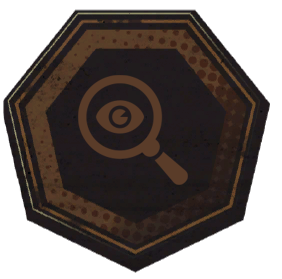
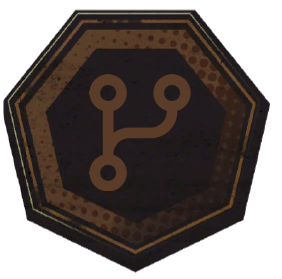
created initial layout, vm and wiring for the settings tab

Changed region(s): [[0.2553, 0.2581, 0.6809, 0.6882]]

diff --git a/ViewModels/Tabs/SearchTabViewModel.cs b/ViewModels/Tabs/SearchTabViewModel.cs
@@ -1,0 +1,58 @@
+using CommunityToolkit.Mvvm.ComponentModel;
+using CommunityToolkit.Mvvm.Input;
+
+namespace RainbusToolbox.ViewModels.Tabs;
+
+/*
+
+basically what i need:
+
+- field to enter what to find at the top + toggle button to enable regex mode
+
+- search through all the files in /localize/
+the porblem with search is that my files are serialized, so first i won't be able to process new filetypes the game adds without updating my model list
+second it would search only file's data instead of whole json like in vscode
+
+good things is that i can easily make "jump to" button to open needed file at needed place right away
+i also can ignore ids, but for this it's probably better to add a toggle if you'd need to find something by id
+
+next what, next i need to see how to make this not lag during the search itself, + properly fill the view so it won't lag too
+
+i think i'd make search execute on focus loss, like i did with navigation manual input
+realtime search like in vscode i feel will bee too sluggish due to serializations
+
+
+plans for future:
+- maybe make a replace field like in vscode (with force ignore for id fields)
+- if i'd make a replace field, i can add a "create quick regex" button that'd copy current replacement into regex list
+
+
+TODO: also overview icon fits search more, move it and make a new icon for the overview!!!
+*/
+public partial class SearchTabViewModel : ObservableObject, IMainWindowTab
+{
+    [ObservableProperty]
+    private string _replaceToText;
+
+    [ObservableProperty]
+    private string _searchStatus = "No searches yet...";
+
+    [ObservableProperty]
+    private string _textToSearch;
+
+    public Task OnTabOpened()
+    {
+        // something something, i guess add an automatic search refresh here + discord rpc as usual
+        return Task.CompletedTask;
+    }
+
+
+    [RelayCommand]
+    public void ProcessSearch()
+    {
+    }
+
+    public void CleanPreviousResults()
+    {
+    }
+}

diff --git a/ViewModels/Tabs/ReleaseTabViewModel.cs b/ViewModels/Tabs/ReleaseTabViewModel.cs
@@ -155,7 +155,7 @@ public partial class ReleaseTabViewModel : ObservableObject, IMainWindowTab
     private bool _buildVersion;
 
     [ObservableProperty]
-    private string _versionDisplay;
+    private string _versionDisplay = "Loading...";
 
 
     [ObservableProperty]
@@ -175,9 +175,6 @@ public partial class ReleaseTabViewModel : ObservableObject, IMainWindowTab
                 ? desktop.MainWindow
                 : null;
         if (top == null) return;
-
-        var storage = top.StorageProvider;
-
 
         var file = await _dialogService.PickSingleFileAsync(new FilePickerOpenOptions
         {
@@ -243,7 +240,7 @@ public partial class ReleaseTabViewModel : ObservableObject, IMainWindowTab
                 : VersionType.Build;
             var nextVersion = _gitManager.GetNextVersionByType(versionTypeToGet).ToString();
 
-            // commit and sync release version, dunno what i didn't think of doing that back then
+            // commit and sync release version, dunno why i didn't think of doing that back then
 
             _gitManager.CommitLocalChanges($"Automatic commit of release version {nextVersion}");
             await _gitManager

diff --git a/ViewModels/MainWindowViewModel.cs b/ViewModels/MainWindowViewModel.cs
@@ -30,6 +30,7 @@ public partial class MainWindowViewModel : ObservableObject
         FilesTabViewModel filesTabViewModel,
         OverviewTabViewModel overviewTabViewModel,
         ReleaseTabViewModel releaseTabViewModel,
+        SearchTabViewModel searchTabViewModel,
         DiscordRPCService discordRPCService,
         DialogService dialogService)
     {
@@ -45,6 +46,7 @@ public partial class MainWindowViewModel : ObservableObject
         FilesTabViewModel = filesTabViewModel;
         OverviewTabViewModel = overviewTabViewModel;
         ReleaseTabViewModel = releaseTabViewModel;
+        SearchTabViewModel = searchTabViewModel;
 
 
         // Initial parse
@@ -126,6 +128,7 @@ public partial class MainWindowViewModel : ObservableObject
     public FilesTabViewModel FilesTabViewModel { get; }
     public OverviewTabViewModel OverviewTabViewModel { get; }
     public ReleaseTabViewModel ReleaseTabViewModel { get; }
+    public SearchTabViewModel SearchTabViewModel { get; }
 
     // ReSharper disable once NotAccessedField.Local
     private Timer? _reparseTimer;

diff --git a/App.axaml.cs b/App.axaml.cs
@@ -231,6 +231,7 @@ public class App : Application
         services.AddSingleton<FilesTabViewModel>();
         services.AddSingleton<ReleaseTabViewModel>();
         services.AddSingleton<OverviewTabViewModel>();
+        services.AddSingleton<SearchTabViewModel>();
     }
 
     private static void RegisterTranslationEditorVMs(ServiceCollection services)

diff --git a/Views/Tabs/SearchTab.axaml.cs b/Views/Tabs/SearchTab.axaml.cs
@@ -1,0 +1,13 @@
+using Avalonia;
+using Avalonia.Controls;
+using Avalonia.Markup.Xaml;
+
+namespace RainbusToolbox.Views.Tabs;
+
+public partial class SearchTab : UserControl
+{
+    public SearchTab()
+    {
+        InitializeComponent();
+    }
+}
